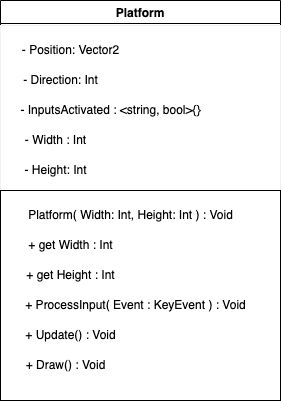
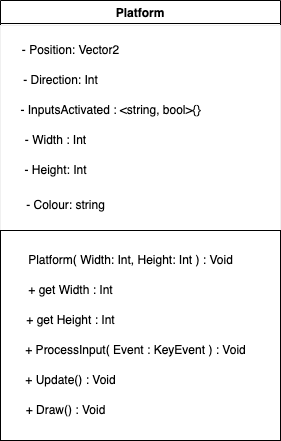
More changes to Platform Class

diff --git a/The_Game/Classes/platform.js b/The_Game/Classes/platform.js
@@ -1,6 +1,7 @@
 class Platform {
     #Position;
     #Direction;
+    #Colour;
     #InputsActivated = {
         A : false,
         D : false,
@@ -13,9 +14,11 @@ class Platform {
 
     constructor( Width, Height ){
         this.#Position = new Vector2( 200, 200 );
-        this.#Direction = 0;
         this.#Width = Width;
         this.#Height = Height;
+        this.#Colour = `rgb(255, 0, 0)`
+
+        this.#Direction = 0;
     }
 
     get Width(){
@@ -36,7 +39,7 @@ class Platform {
     }   
 
     Update(){
-        Direction = 0;
+        this.#Direction = 0;
 
         for ( const [Input, KeyDown] of Object.entries( this.#InputsActivated ) ){
             if ( !KeyDown ){
@@ -45,25 +48,33 @@ class Platform {
 
             switch ( Input ){
                 case "A":
-                    Direction -= 1;
+                    this.#Direction = -1;
                     break;
                 case "D":
-                    Dircetion += 1;
+                    this.#Direction = 1;
                     break;
                 case "LEFTARROW":
-                    Direction -= 1;
+                    this.#Direction = -1;
                     break;
                 case "RIGHTARROW":
-                    Direction += 1;
+                    this.#Direction = 1;
                     break;
             }
         }
 
-        this.#Position.add( new Vector2( Direction, 0 ) );
+        this.#Position.add( new Vector2(  this.#Direction, 0 ) );
     }
 
 
     Draw(){
-    
+        Position = this.#Position;
+        Width = this.#Width;
+        Height = this.#Height;
+        
+        context.fillStyle = this.#Colour;
+        context.FillRect( 
+            Position.x - Width/2 , Position.y - Height/2,
+            Width, Height  
+        );
     }
 }
